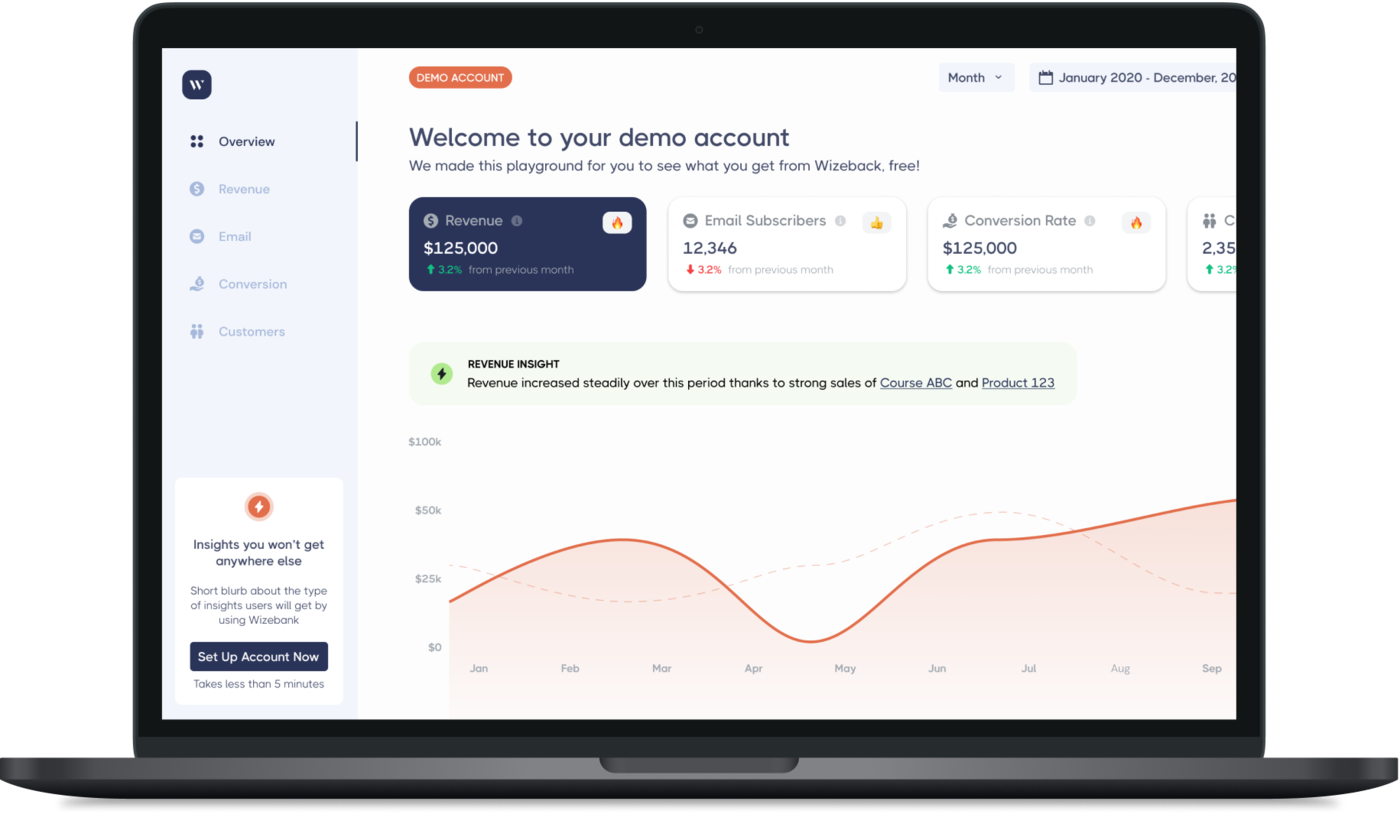
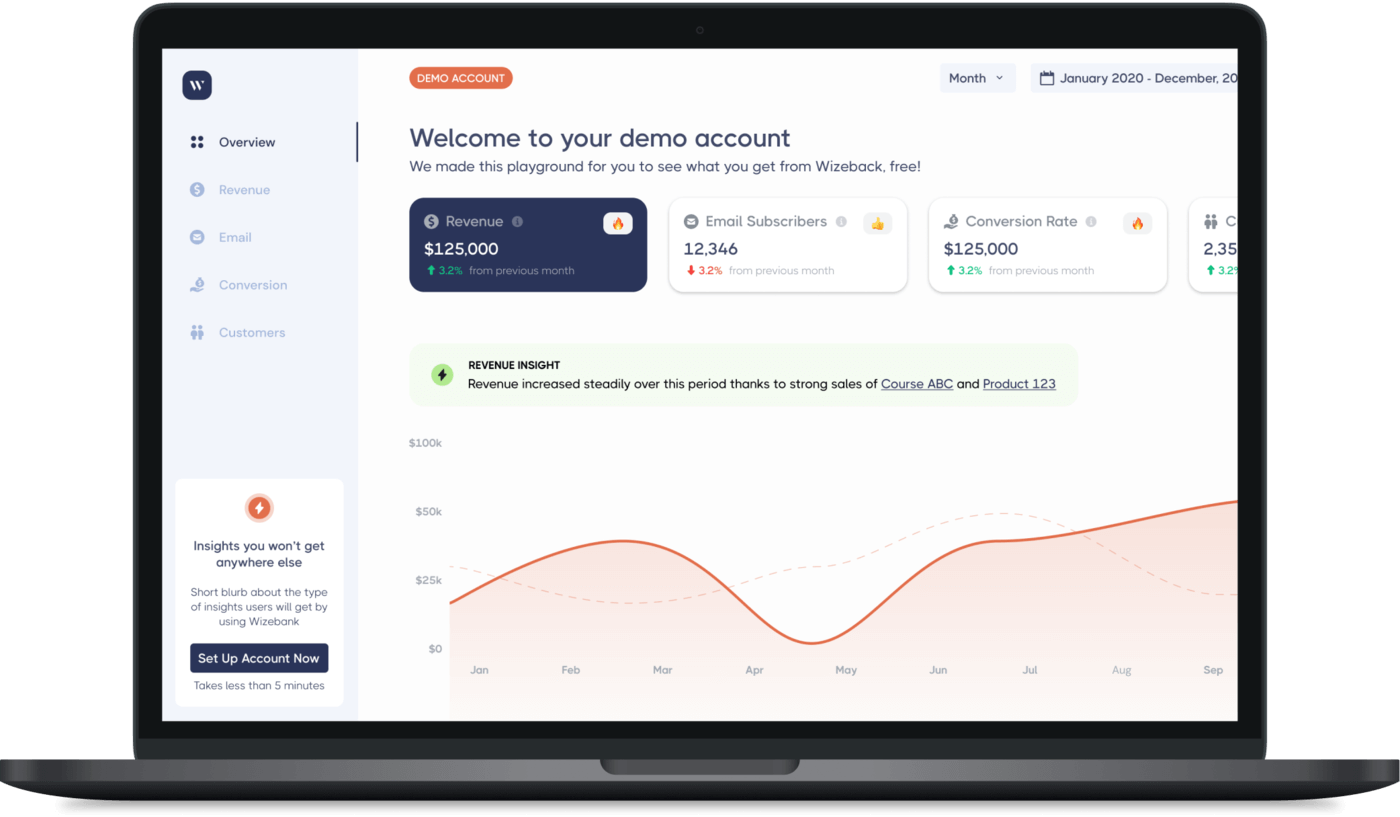
fixing issue with slightly blurry text in large webp images

diff --git a/projects/wizebank.html b/projects/wizebank.html
@@ -108,30 +108,20 @@ og_image: http://sixzero.co/assets/img/projects/wizebank/og-image-wizebank.png
     <div class="project__image">
       <picture>
         <source
-          sizes="(max-width: 1400px) 100vw, 1400px"
-          srcset="
-            /assets/img/projects/wizebank/wizebank-preview/wizebank_400.webp 400w,
-            /assets/img/projects/wizebank/wizebank-preview/wizebank_600.webp 600w,
-            /assets/img/projects/wizebank/wizebank-preview/wizebank_800.webp 800w,
-            /assets/img/projects/wizebank/wizebank-preview/wizebank_1200.webp 1200w,
-            /assets/img/projects/wizebank/wizebank-preview/wizebank_1400.webp 1400w,
-          "
-          type="image/webp"
-        />
-        <source
-          sizes="(max-width: 1400px) 100vw, 1400px"
+          sizes="(max-width: 2000px) 100vw, 2000px"
           srcset="
             /assets/img/projects/wizebank/wizebank-preview/wizebank_400.png 400w,
             /assets/img/projects/wizebank/wizebank-preview/wizebank_600.png 600w,
             /assets/img/projects/wizebank/wizebank-preview/wizebank_800.png 800w,
             /assets/img/projects/wizebank/wizebank-preview/wizebank_1200.png 1200w,
             /assets/img/projects/wizebank/wizebank-preview/wizebank_1400.png 1400w,
+            /assets/img/projects/wizebank/wizebank-preview/wizebank.png 2000w,
           "
           type="image/png"
         />
         <img
           class=""
-          src="/assets/img/projects/wizebank/wizebank-preview/wizebank_1400.png"
+          src="/assets/img/projects/wizebank/wizebank-preview/wizebank.png"
           alt="The Wizebank application UI created by Sixzero and Wizebank."
         />
       </picture>

diff --git a/_includes/summary-wizebank.html b/_includes/summary-wizebank.html
@@ -13,30 +13,20 @@
     <div class="project__image">
       <picture>
         <source
-          sizes="(max-width: 1400px) 100vw, 1400px"
-          srcset="
-            /assets/img/projects/wizebank/wizebank-preview/wizebank_400.webp 400w,
-            /assets/img/projects/wizebank/wizebank-preview/wizebank_600.webp 600w,
-            /assets/img/projects/wizebank/wizebank-preview/wizebank_800.webp 800w,
-            /assets/img/projects/wizebank/wizebank-preview/wizebank_1200.webp 1200w,
-            /assets/img/projects/wizebank/wizebank-preview/wizebank_1400.webp 1400w,
-          "
-          type="image/webp"
-        />
-        <source
-          sizes="(max-width: 1400px) 100vw, 1400px"
+          sizes="(max-width: 2000px) 100vw, 2000px"
           srcset="
             /assets/img/projects/wizebank/wizebank-preview/wizebank_400.png 400w,
             /assets/img/projects/wizebank/wizebank-preview/wizebank_600.png 600w,
             /assets/img/projects/wizebank/wizebank-preview/wizebank_800.png 800w,
             /assets/img/projects/wizebank/wizebank-preview/wizebank_1200.png 1200w,
             /assets/img/projects/wizebank/wizebank-preview/wizebank_1400.png 1400w,
+            /assets/img/projects/wizebank/wizebank-preview/wizebank.png 2000w,
           "
           type="image/png"
         />
         <img
           class=""
-          src="/assets/img/projects/wizebank/wizebank-preview/wizebank_1400.png"
+          src="/assets/img/projects/wizebank/wizebank-preview/wizebank.png"
           alt="The Wizebank application UI created by Sixzero and Wizebank."
         />
       </picture>
